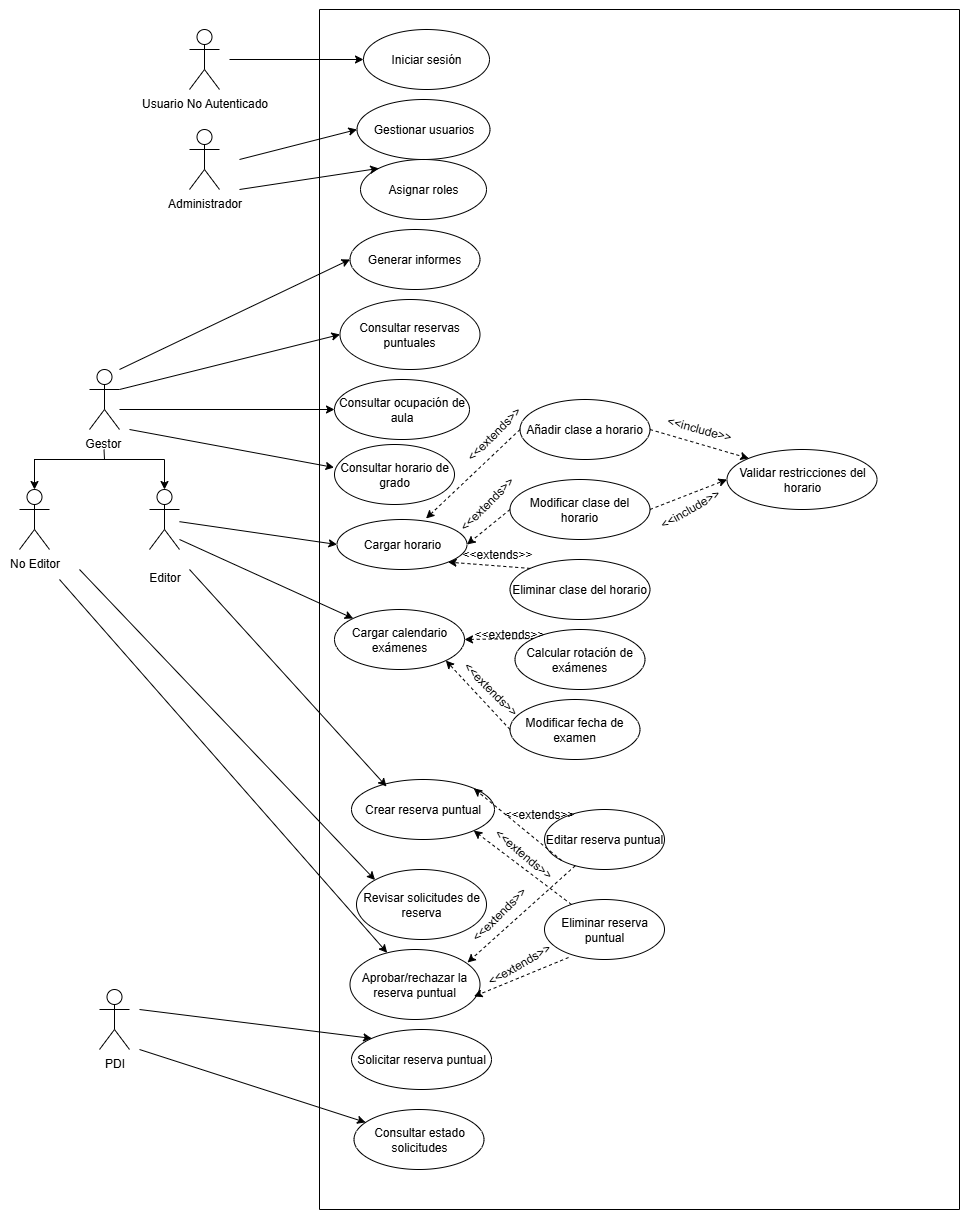
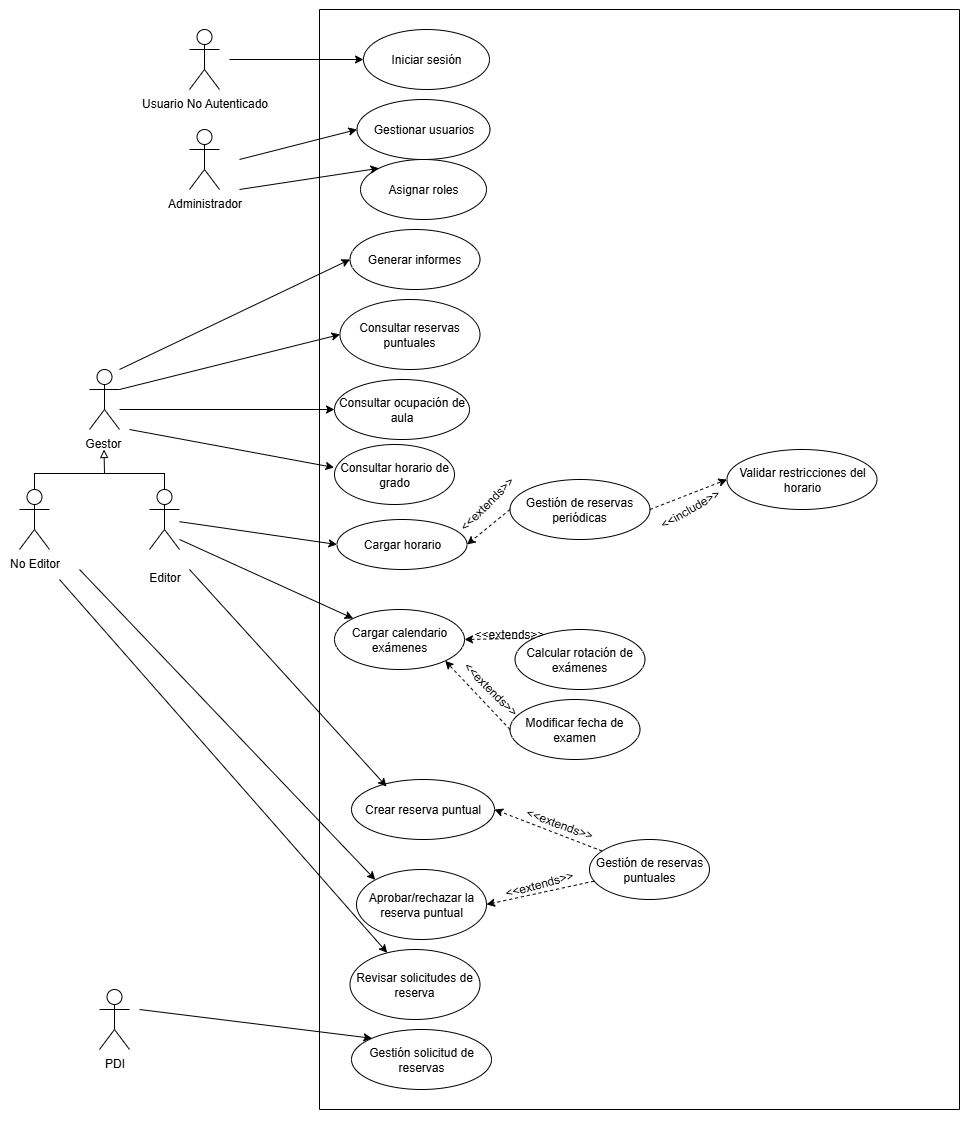
Corregir diagrama de casos de uso y actualizar sprints

diff --git a/doc/tex/A_Plan_proyecto.tex b/doc/tex/A_Plan_proyecto.tex
@@ -91,6 +91,7 @@ Duración: 3 semanas
 		\end{enumerate}
 		\item\bloque{Revisión del Sprint}
 		En la revisión del sprint se ha analizado todo bien y falta analizar más en los casos de uso ya que faltan varios, y profundizar más en Django REST Framework.
+		\item\bloque{Gráfico} \imagen{img/Sprint 4.png}{Gráfico de los commits realizados durante el Sprint 4}
 	\end{itemize}
 \end{Sprint}
 
@@ -105,8 +106,27 @@ Duración: 3 semanas
 			\item Investigar funcionamiento Django REST Framework
 		\end{enumerate}
 		\item\bloque{Revisión del Sprint}
+		En la reunión de revisión del sprint, se ha visto un fallo en el diagrama de casos de uso, y en cuanto a ellos se ha decidido realizar agrupaciones en alguno de ellos para definirlos como uno solo. Y se ha realizado bien el trabajo del funcionamiento del Django REST Framework.
+		\item\bloque{Gráfico} \imagen{img/Sprint 5.png}{Gráfico de los commits realizados durante el Sprint 5}
 	\end{itemize}
 \end{Sprint}
+
+\begin{Sprint}{6}{4/11/2025-11/11/2025}
+	Duración: 1 semana
+	\begin{itemize}	
+		\item\bloque{Objetivos}
+		Durante la reunión de planificación de este sprint se propusieron los siguientes objetivos:
+		\begin{enumerate}
+			\item Corregir diagrama de casos de uso
+			\item Realizar tablas de casos de uso
+			\item Configurar el entorno
+			\item Realizar una pantalla sencilla
+		\end{enumerate}
+		\item\bloque{Revisión del Sprint}
+
+	\end{itemize}
+\end{Sprint}
+
 
 \section{Estudio de viabilidad}
 